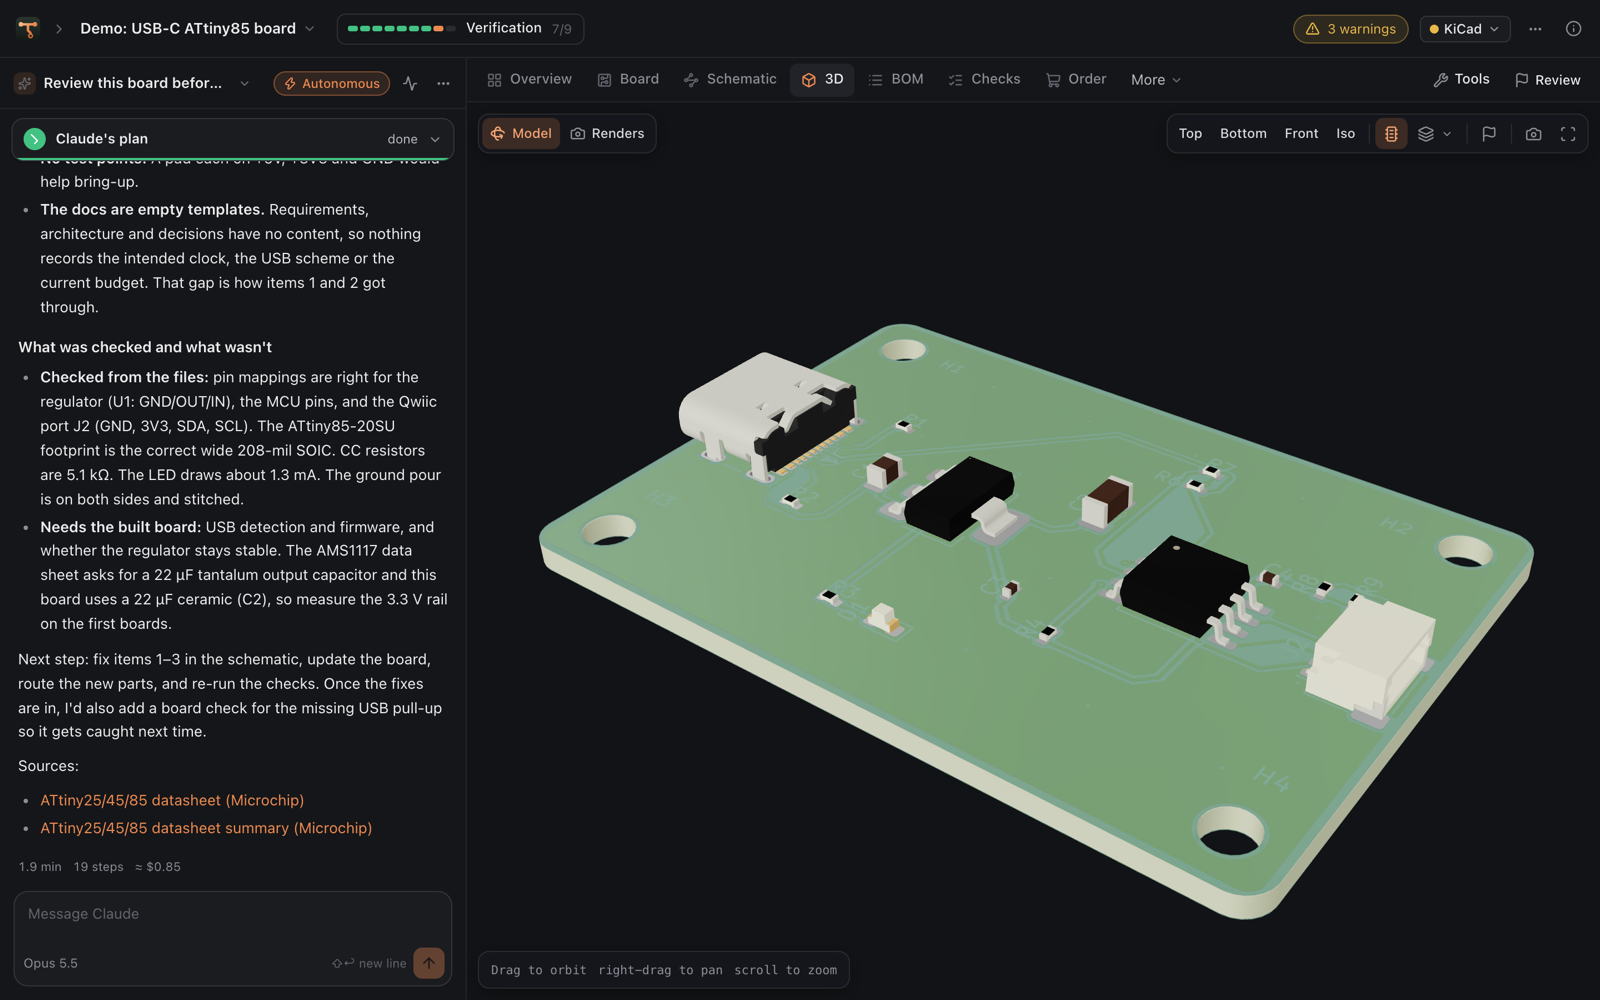
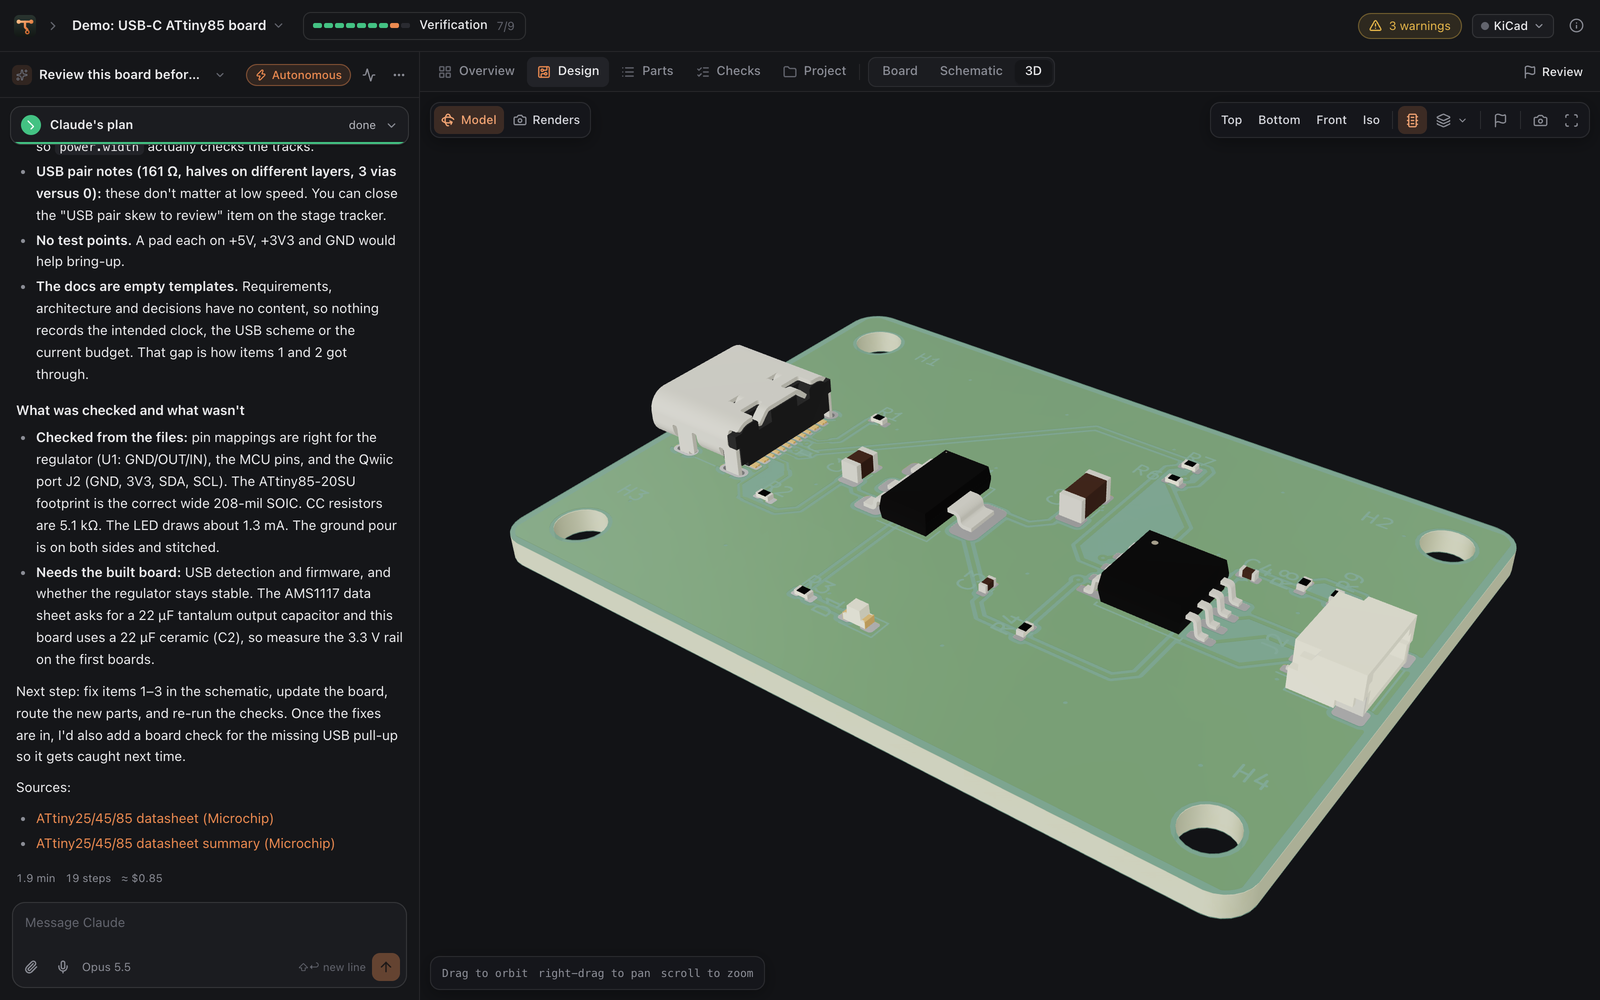
Tracewright 0.4.0
The version, the changelog (both copies) and the README: the features added since
0.2.0, 56 checks, the sign-off before ordering, a privacy note for the stock watch
and dictation, and new screenshots of the demo board with a real Claude review.
Copy pass: dictation errors named in plain words, the sign-off page heads its list of
what is left, Settings gets the stock watch switch the README points to, and a hidden
plan pill or meter no longer shows as an empty badge.

diff --git a/tracewright/web/js/dictation.js b/tracewright/web/js/dictation.js
@@ -33,7 +33,11 @@ export class Dictation {
     };
     r.onerror = (e) => {
       this.err = e.error === "not-allowed" || e.error === "service-not-allowed" ? "The browser blocked the microphone. Allow it for this page and try again."
-        : e.error === "no-speech" || e.error === "aborted" ? null : `Dictation stopped: ${e.error}`;
+        : e.error === "no-speech" || e.error === "aborted" ? null
+        : e.error === "audio-capture" ? "No microphone found."
+        : e.error === "network" ? "Dictation needs the speech service, which could not be reached."
+        : e.error === "language-not-supported" ? "Dictation does not support this language here."
+        : `Dictation stopped (${e.error}).`;
     };
     r.onend = () => this.end(this.err || null);
     try { r.start(); } catch (e) { this.end(e.message); }

diff --git a/tracewright/web/js/signoff.js b/tracewright/web/js/signoff.js
@@ -94,7 +94,7 @@ export class SignoffView {
           : `Signed off by ${so.by} ${fmtTime(so.at)}, but the design has changed since: sign it off again before ordering.`),
         so.note ? h("span.muted", `“${so.note}”`) : null, h("span.grow"),
         btn("undo-2", "Take it back", { onclick: () => this.revoke() }, "sm ghost")) : null,
-      !s.can_sign ? h("ul.so-block", s.blockers.map((b) => h("li", b))) : null,
+      !s.can_sign ? h("div.so-need", h("div.so-needh", "Before you can sign off"), h("ul.so-block", s.blockers.map((b) => h("li", b)))) : null,
       !(so && so.valid) ? h("div.row", note, signBtn) : null,
       so && so.valid ? h("div.row", btn("shopping-cart", "Order", { onclick: () => this.ws.show("outputs") }, "primary")) : null));
   }

diff --git a/tracewright/web/css/app.css b/tracewright/web/css/app.css
@@ -2055,6 +2055,7 @@ body > .app, #app { animation: appin .4s var(--ease) both; }
 .so-sign { margin-top: 14px; border: 1px solid var(--accent-line); border-radius: 12px; padding: 14px; background: var(--accent-soft); display: flex; flex-direction: column; gap: 10px; }
 .so-sign.blocked { border-color: var(--line-2); background: var(--surface); }
 .so-sign .row input { flex: 1; }
+.so-needh { font-size: 12px; font-weight: 600; color: var(--text-3); text-transform: uppercase; letter-spacing: .04em; margin-bottom: 6px; }
 .so-block { margin: 0; padding-left: 18px; font-size: 13px; color: var(--text-2); }
 .so-signed { display: flex; align-items: center; gap: 8px; font-size: 13px; color: var(--ok); flex-wrap: wrap; }
 .so-signed.stale { color: var(--warn); }

diff --git a/tracewright/web/js/settings.js b/tracewright/web/js/settings.js
@@ -197,6 +197,7 @@ export class SettingsPage {
         ["bypassPermissions", "Never ask"], ["plan", "Plan only"]])),
       this.row("Allow safe commands without asking", "Toolkit, KiCad, git and read-only commands", this.sw("auto_allow_bash")),
       this.row("Allow web lookups", "Data sheets and part searches", this.sw("allow_web")),
+      this.row("Watch part stock", "Once a day, JLC and LCSC stock for the parts on a board you open", this.sw("stock_watch")),
       this.row("Checkpoint every turn", "Undo any turn from History", this.sw("snapshot_each_turn"))]);
     const auth = { api_key: "API key", subscription_token: "Claude plan token", claude_code: "Claude Code" }[info.claude_auth] || "Not connected";
     this.group("Connection", null, [

diff --git a/tracewright/__init__.py b/tracewright/__init__.py
@@ -7,7 +7,7 @@ in the files, and live in an open KiCad through its IPC API.
 """
 import os as _os, sys as _sys
 
-__version__ = "0.3.0"
+__version__ = "0.4.0"
 REPO_URL = "https://github.com/benapp425/tracewright-app"    # where releases and update checks come from
 APP_NAME = "Tracewright"
 

diff --git a/README.md b/README.md
@@ -9,7 +9,7 @@ Describe a board or open one you have. Claude designs, places, routes and checks
 live in KiCad, then sends it to the fab.</p>
 
 <p align="center">
-  <img alt="Version" src="https://img.shields.io/badge/version-0.2.0-eb8a50">
+  <img alt="Version" src="https://img.shields.io/badge/version-0.4.0-eb8a50">
   <img alt="macOS" src="https://img.shields.io/badge/macOS-12%2B-lightgrey">
   <img alt="KiCad" src="https://img.shields.io/badge/KiCad-9%20%7C%2010-314cb0">
   <img alt="License" src="https://img.shields.io/badge/license-MIT-43c283">
@@ -21,23 +21,27 @@ live in KiCad, then sends it to the fab.</p>
 
 **Design with Claude**
 - **A chat beside the board.** Claude reads the schematic and board, runs the checks and makes changes with its own design tools.
+- **Start from a floorplan.** Drag the board's outline, mounting holes, connectors and main parts into place. Claude lays the board out from it.
 - **Live in KiCad.** Placement and routing appear in KiCad's PCB Editor as Claude works.
-- **You stay in control.** Claude keeps a visible plan, asks questions as cards, and reads the notes you send while it works.
-- **Mission Control.** A full-screen view of autonomous runs.
+- **You stay in control.** Claude keeps a visible plan, asks questions as cards and reads the notes you send while it works. Each turn shows what it changed and can be undone.
+- **Talk, attach, point.** Dictate a message, drop in pictures and data sheets, or type @ to point Claude at a part, net or sheet.
+- **Run monitor.** A full-screen view of a run: the plan, the stages, the board as it grows, and how much of your Claude plan's limit is used.
 
 **Check it**
-- **50 design checks.** Schematic integrity (pinouts, packages, voltage domains), BOM, placement, routing quality, fab limits, assembly, signal integrity and power (regulators, heat, voltage drop, switchers, pours). Each check is tested against a planted fault.
+- **56 design checks.** Schematic integrity (pinouts, packages, voltage domains), BOM, placement, routing quality, fab limits, assembly, signal integrity and power (regulators, heat, voltage drop, switchers, pours). Each says what it examined, and each is tested against a planted fault.
+- **Sign-off.** Before anything is ordered: what the checks found, the waivers you approved, and what only the built board can show.
 - **Compare versions.** See what moved and which copper changed since any checkpoint.
-- **Bring-up checklist.** Test the built board step by step, with each reading checked against the plan.
+- **Bring-up.** A checklist for the built board, with each reading checked against the plan, and a firmware starter: the pin map and a bring-up sketch from the schematic.
 
 **Build it**
 - **Order in one place.** JLCPCB turnkey or self-assembly, with a readiness list and a price estimate. Upload to PCBWay in one click.
+- **Stock watch.** Warns when a part runs short of what an order needs, and finds in-stock stand-ins.
 - **Save money.** Exact JLC Basic equivalents for Extended parts.
 - **Parts lists.** For DigiKey, Mouser and LCSC.
 
 <p align="center">
   <img src="docs/images/board.png" width="440" alt="The board view">
-  <img src="docs/images/mission.png" width="440" alt="Mission Control">
+  <img src="docs/images/mission.png" width="440" alt="The run monitor">
 </p>
 <p align="center">
   <img src="docs/images/checks.png" width="440" alt="Design checks">
@@ -78,7 +82,8 @@ Run it again to update. `sh install.sh --uninstall` removes the app and keeps yo
 2. **Finish setup.** Tracewright checks KiCad and Claude, then asks for a theme and a workflow.
 3. **Start a project.** Describe a new board, import a KiCad project (or Altium, Eagle, PADS,
    CADSTAR, Fabmaster or P-CAD), open the demo, or get project ideas.
-4. **Order.** When the checks pass, the Order tab prepares the files and sends them to the fab.
+4. **Sign off and order.** Review the findings and waivers in Checks ▸ Sign-off and sign the design off. Parts ▸ Order then
+   prepares the files and sends them to the fab.
 
 To see Claude's edits live in KiCad, enable KiCad's API (**Preferences ▸ Plugins ▸ Enable KiCad API**),
 restart KiCad and open the board in the PCB Editor.
@@ -105,7 +110,9 @@ project folder, and Claude Code picks up the same instructions and skills there.
 
 Tracewright runs on your Mac and keeps your projects there. When Claude works on a project, what it
 reads (files, renders, check results) goes to Anthropic through your Claude Code sign-in or API key.
-Part lookups query JLCPCB, LCSC and EasyEDA for the parts you look up. Board files are uploaded only
+Part lookups query JLCPCB, LCSC and EasyEDA for the parts you look up, and once a day the stock watch asks
+about the parts on a board you open (Settings ▸ Watch part stock turns it off). Dictation uses Apple's speech recognition, on the Mac when
+it can; in a browser, the browser's own speech service. Board files are uploaded only
 when you order or sync a project with GitHub. Accounts are stored in the app's data folder, with
 passwords kept only as salted hashes. Once a day the app checks GitHub for a newer release
 (Settings ▸ About turns this off).

diff --git a/CHANGELOG.md b/CHANGELOG.md
@@ -3,6 +3,44 @@
 All notable changes to Tracewright. The format follows [Keep a Changelog](https://keepachangelog.com/en/1.1.0/),
 and versions follow [Semantic Versioning](https://semver.org/).
 
+## [0.4.0] - 2026-09-29
+
+A simpler workspace, a floorplan to start from, and a sign-off before anything is ordered.
+
+### Added
+- **Floorplan.** At the start, set the board's size, mounting holes, connectors and main parts by dragging them. Claude lays the board out from it.
+- **Sign-off.** Before ordering, review what the checks found, approve or reject each waiver, and sign the design off. A later change to the design reopens it.
+- **Stage gates.** A stage counts as done only when its work is: the requirements written, the checks run on the design as it is, nothing left unrouted.
+- **Undo a turn.** After each turn, a card shows what changed on the board, in the schematic and in the docs. Undo puts the files back as they were.
+- **Attachments.** Drop, paste or pick files into a message. Pictures go to Claude; data sheets, libraries and 3D models go into the project.
+- **Dictation.** Click the microphone, or hold it while you talk. The Mac app recognizes speech on the Mac when it can.
+- **@-mentions.** Type @ to point Claude at a part, net, sheet or file.
+- **Net names on the board.** Zoom in to read the net on each track, pad and via.
+- **Data sheet library.** Each part's data sheet is saved in the project with its pin table, and the pinout check trusts it over the parts library.
+- **Firmware starter.** A pin map and a bring-up sketch, written from the schematic.
+- **Stock watch.** Checks your parts' stock against what an order needs, warns when one runs short, and finds in-stock stand-ins.
+- **Design limits.** An Advanced section in the requirements: size, height, layers, currents, temperature, cost, quantity and more. The checks hold the design to them.
+- **Net model.** Every net has a kind, a voltage, a current and its pair. The checks and the net classes follow it.
+- **Plan usage.** The run monitor shows how much of your Claude plan's limit is used and when it resets. The chat shows it too when you are close.
+- **Run report.** Time, turns and cost for each stage, on the sign-off page.
+
+### Changed
+- **Five places.** Overview, Design, Parts, Checks and Project replace the eleven tabs. The Ask Claude buttons are gone: ask in the chat.
+- **Run monitor.** Mission Control is now a working view of a run: the plan, the stages, the board as it grows, the latest steps and the checks.
+- **Checks.** Every check says what it examined, or why it does not apply. Nothing passes without looking.
+- **Waivers.** Claude proposes a waiver with its reason. An error stops counting only once you approve it.
+- **Schematics.** Connectors face the circuit they serve, dividers stand top to bottom, and supply pins on one side share one symbol. A crowded side is drawn again with room kept for the pins that need it.
+- **Placement.** A new check makes sure every pad has room for its track to leave.
+- **Silkscreen.** Reference designators that sit on pads, other text or the board edge are moved before release.
+- **Home screen.** Opens at once with the last project list, and says when a project's files are only in iCloud.
+
+### Fixed
+- **Costs.** Each turn was shown with the whole conversation's running cost, so conversation totals and the run report came out several times too high. Turns now show their own cost, and older conversations are corrected when opened.
+- **Parts left off schematics.** An LED or a crystal with no room beside its pins was left out of the schematic. It is now drawn beside the part.
+- **Router.** A second run no longer stacks stitching vias. Rerouting clears stray tracks left on unconnected pads, redraws the neck-down areas when a part has moved, and names the pour islands it could not join.
+- **Waivers after moving a project.** Some schematic findings were keyed by the file's full path, so moving the project folder dropped their waivers.
+- **Docs panel.** No longer shows an error when a project has no firmware folder.
+
 ## [0.3.0] - 2026-09-28
 
 Routing and schematics that look like a person made them, and more ways to check a design.

diff --git a/tracewright/CHANGELOG.md b/tracewright/CHANGELOG.md
@@ -3,6 +3,44 @@
 All notable changes to Tracewright. The format follows [Keep a Changelog](https://keepachangelog.com/en/1.1.0/),
 and versions follow [Semantic Versioning](https://semver.org/).
 
+## [0.4.0] - 2026-09-29
+
+A simpler workspace, a floorplan to start from, and a sign-off before anything is ordered.
+
+### Added
+- **Floorplan.** At the start, set the board's size, mounting holes, connectors and main parts by dragging them. Claude lays the board out from it.
+- **Sign-off.** Before ordering, review what the checks found, approve or reject each waiver, and sign the design off. A later change to the design reopens it.
+- **Stage gates.** A stage counts as done only when its work is: the requirements written, the checks run on the design as it is, nothing left unrouted.
+- **Undo a turn.** After each turn, a card shows what changed on the board, in the schematic and in the docs. Undo puts the files back as they were.
+- **Attachments.** Drop, paste or pick files into a message. Pictures go to Claude; data sheets, libraries and 3D models go into the project.
+- **Dictation.** Click the microphone, or hold it while you talk. The Mac app recognizes speech on the Mac when it can.
+- **@-mentions.** Type @ to point Claude at a part, net, sheet or file.
+- **Net names on the board.** Zoom in to read the net on each track, pad and via.
+- **Data sheet library.** Each part's data sheet is saved in the project with its pin table, and the pinout check trusts it over the parts library.
+- **Firmware starter.** A pin map and a bring-up sketch, written from the schematic.
+- **Stock watch.** Checks your parts' stock against what an order needs, warns when one runs short, and finds in-stock stand-ins.
+- **Design limits.** An Advanced section in the requirements: size, height, layers, currents, temperature, cost, quantity and more. The checks hold the design to them.
+- **Net model.** Every net has a kind, a voltage, a current and its pair. The checks and the net classes follow it.
+- **Plan usage.** The run monitor shows how much of your Claude plan's limit is used and when it resets. The chat shows it too when you are close.
+- **Run report.** Time, turns and cost for each stage, on the sign-off page.
+
+### Changed
+- **Five places.** Overview, Design, Parts, Checks and Project replace the eleven tabs. The Ask Claude buttons are gone: ask in the chat.
+- **Run monitor.** Mission Control is now a working view of a run: the plan, the stages, the board as it grows, the latest steps and the checks.
+- **Checks.** Every check says what it examined, or why it does not apply. Nothing passes without looking.
+- **Waivers.** Claude proposes a waiver with its reason. An error stops counting only once you approve it.
+- **Schematics.** Connectors face the circuit they serve, dividers stand top to bottom, and supply pins on one side share one symbol. A crowded side is drawn again with room kept for the pins that need it.
+- **Placement.** A new check makes sure every pad has room for its track to leave.
+- **Silkscreen.** Reference designators that sit on pads, other text or the board edge are moved before release.
+- **Home screen.** Opens at once with the last project list, and says when a project's files are only in iCloud.
+
+### Fixed
+- **Costs.** Each turn was shown with the whole conversation's running cost, so conversation totals and the run report came out several times too high. Turns now show their own cost, and older conversations are corrected when opened.
+- **Parts left off schematics.** An LED or a crystal with no room beside its pins was left out of the schematic. It is now drawn beside the part.
+- **Router.** A second run no longer stacks stitching vias. Rerouting clears stray tracks left on unconnected pads, redraws the neck-down areas when a part has moved, and names the pour islands it could not join.
+- **Waivers after moving a project.** Some schematic findings were keyed by the file's full path, so moving the project folder dropped their waivers.
+- **Docs panel.** No longer shows an error when a project has no firmware folder.
+
 ## [0.3.0] - 2026-09-28
 
 Routing and schematics that look like a person made them, and more ways to check a design.
